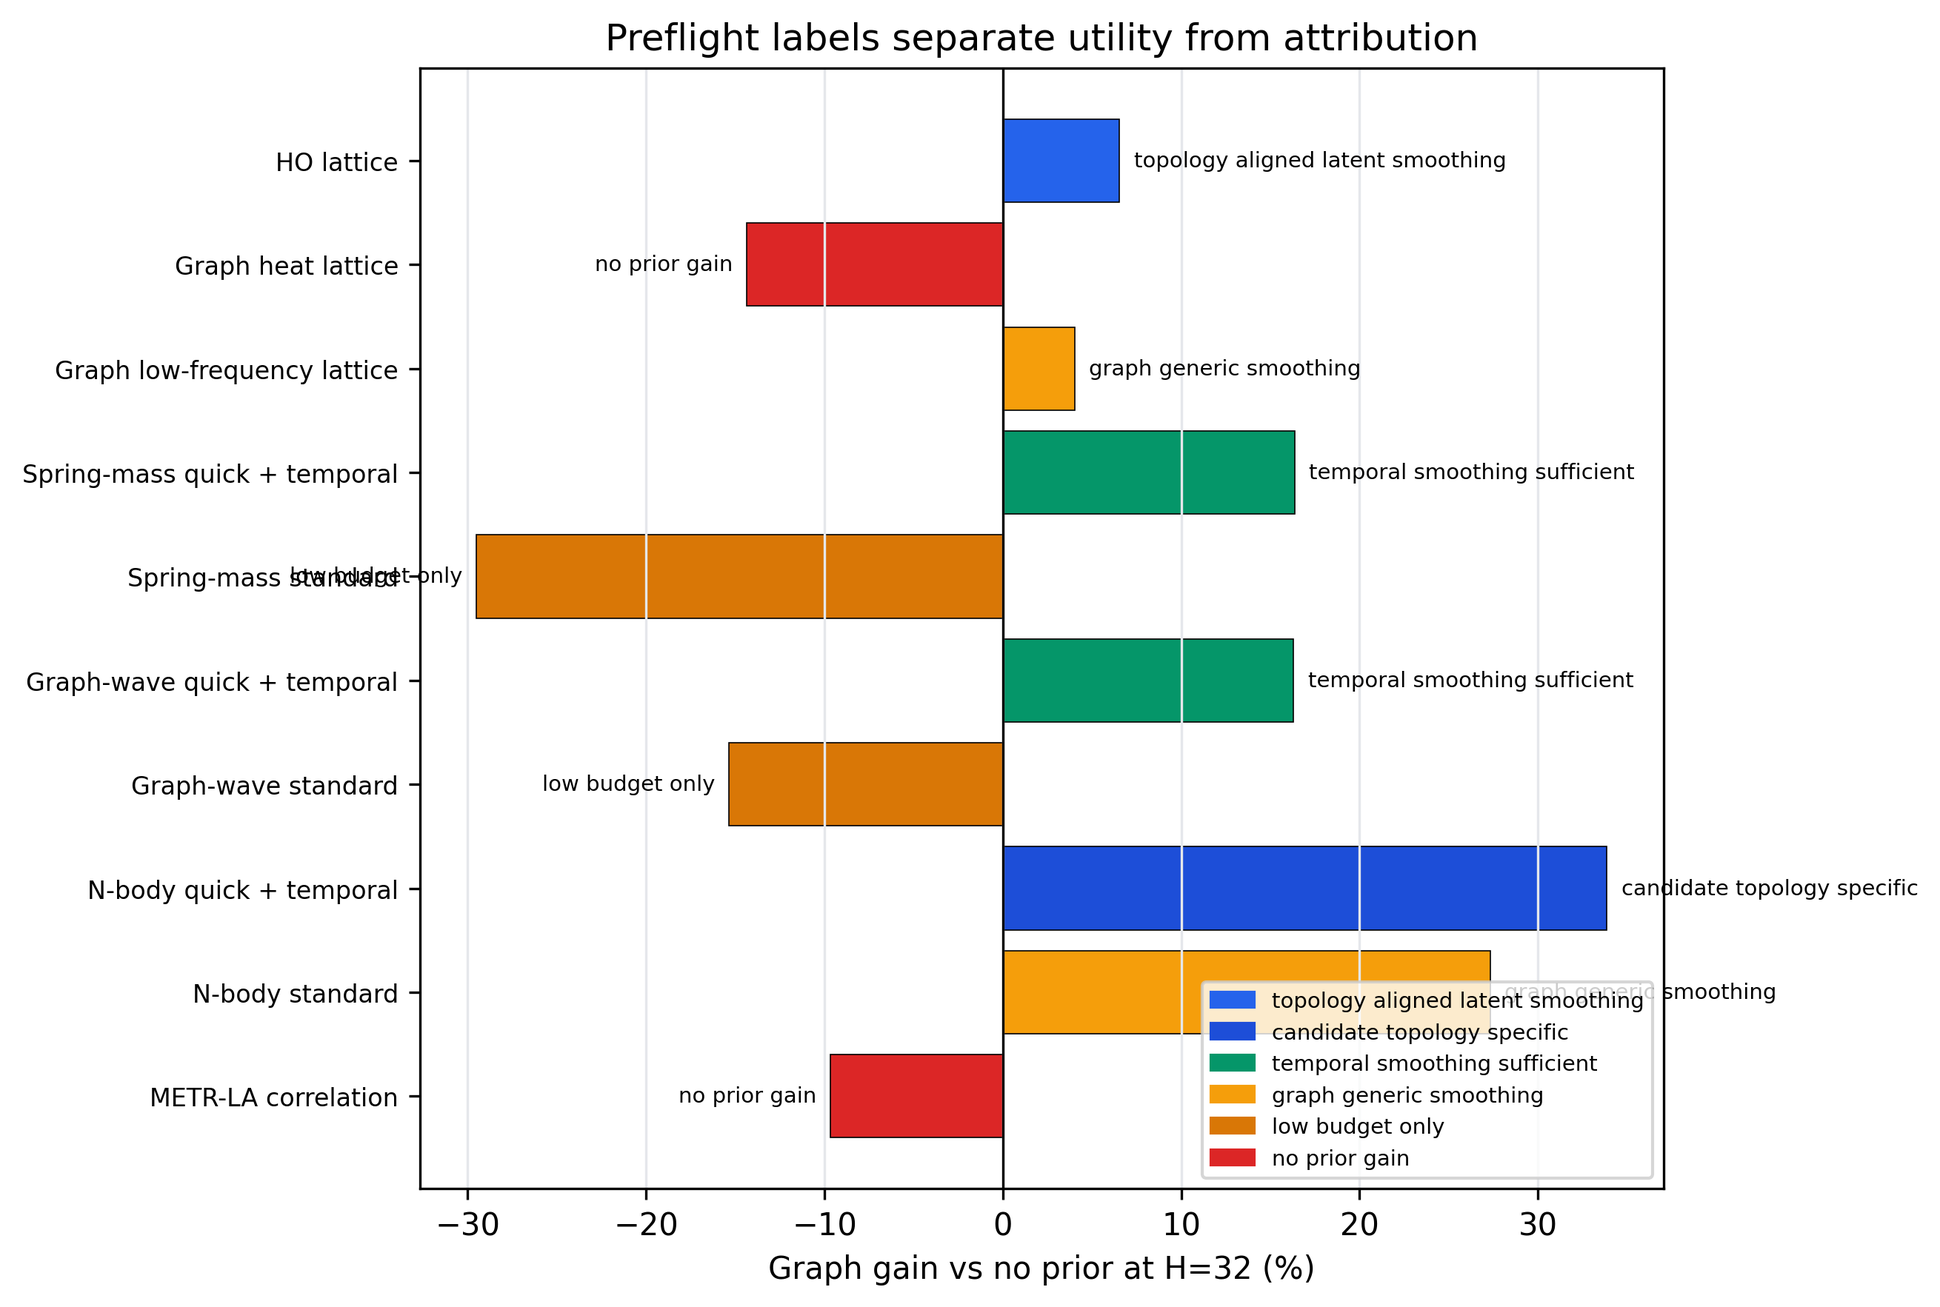
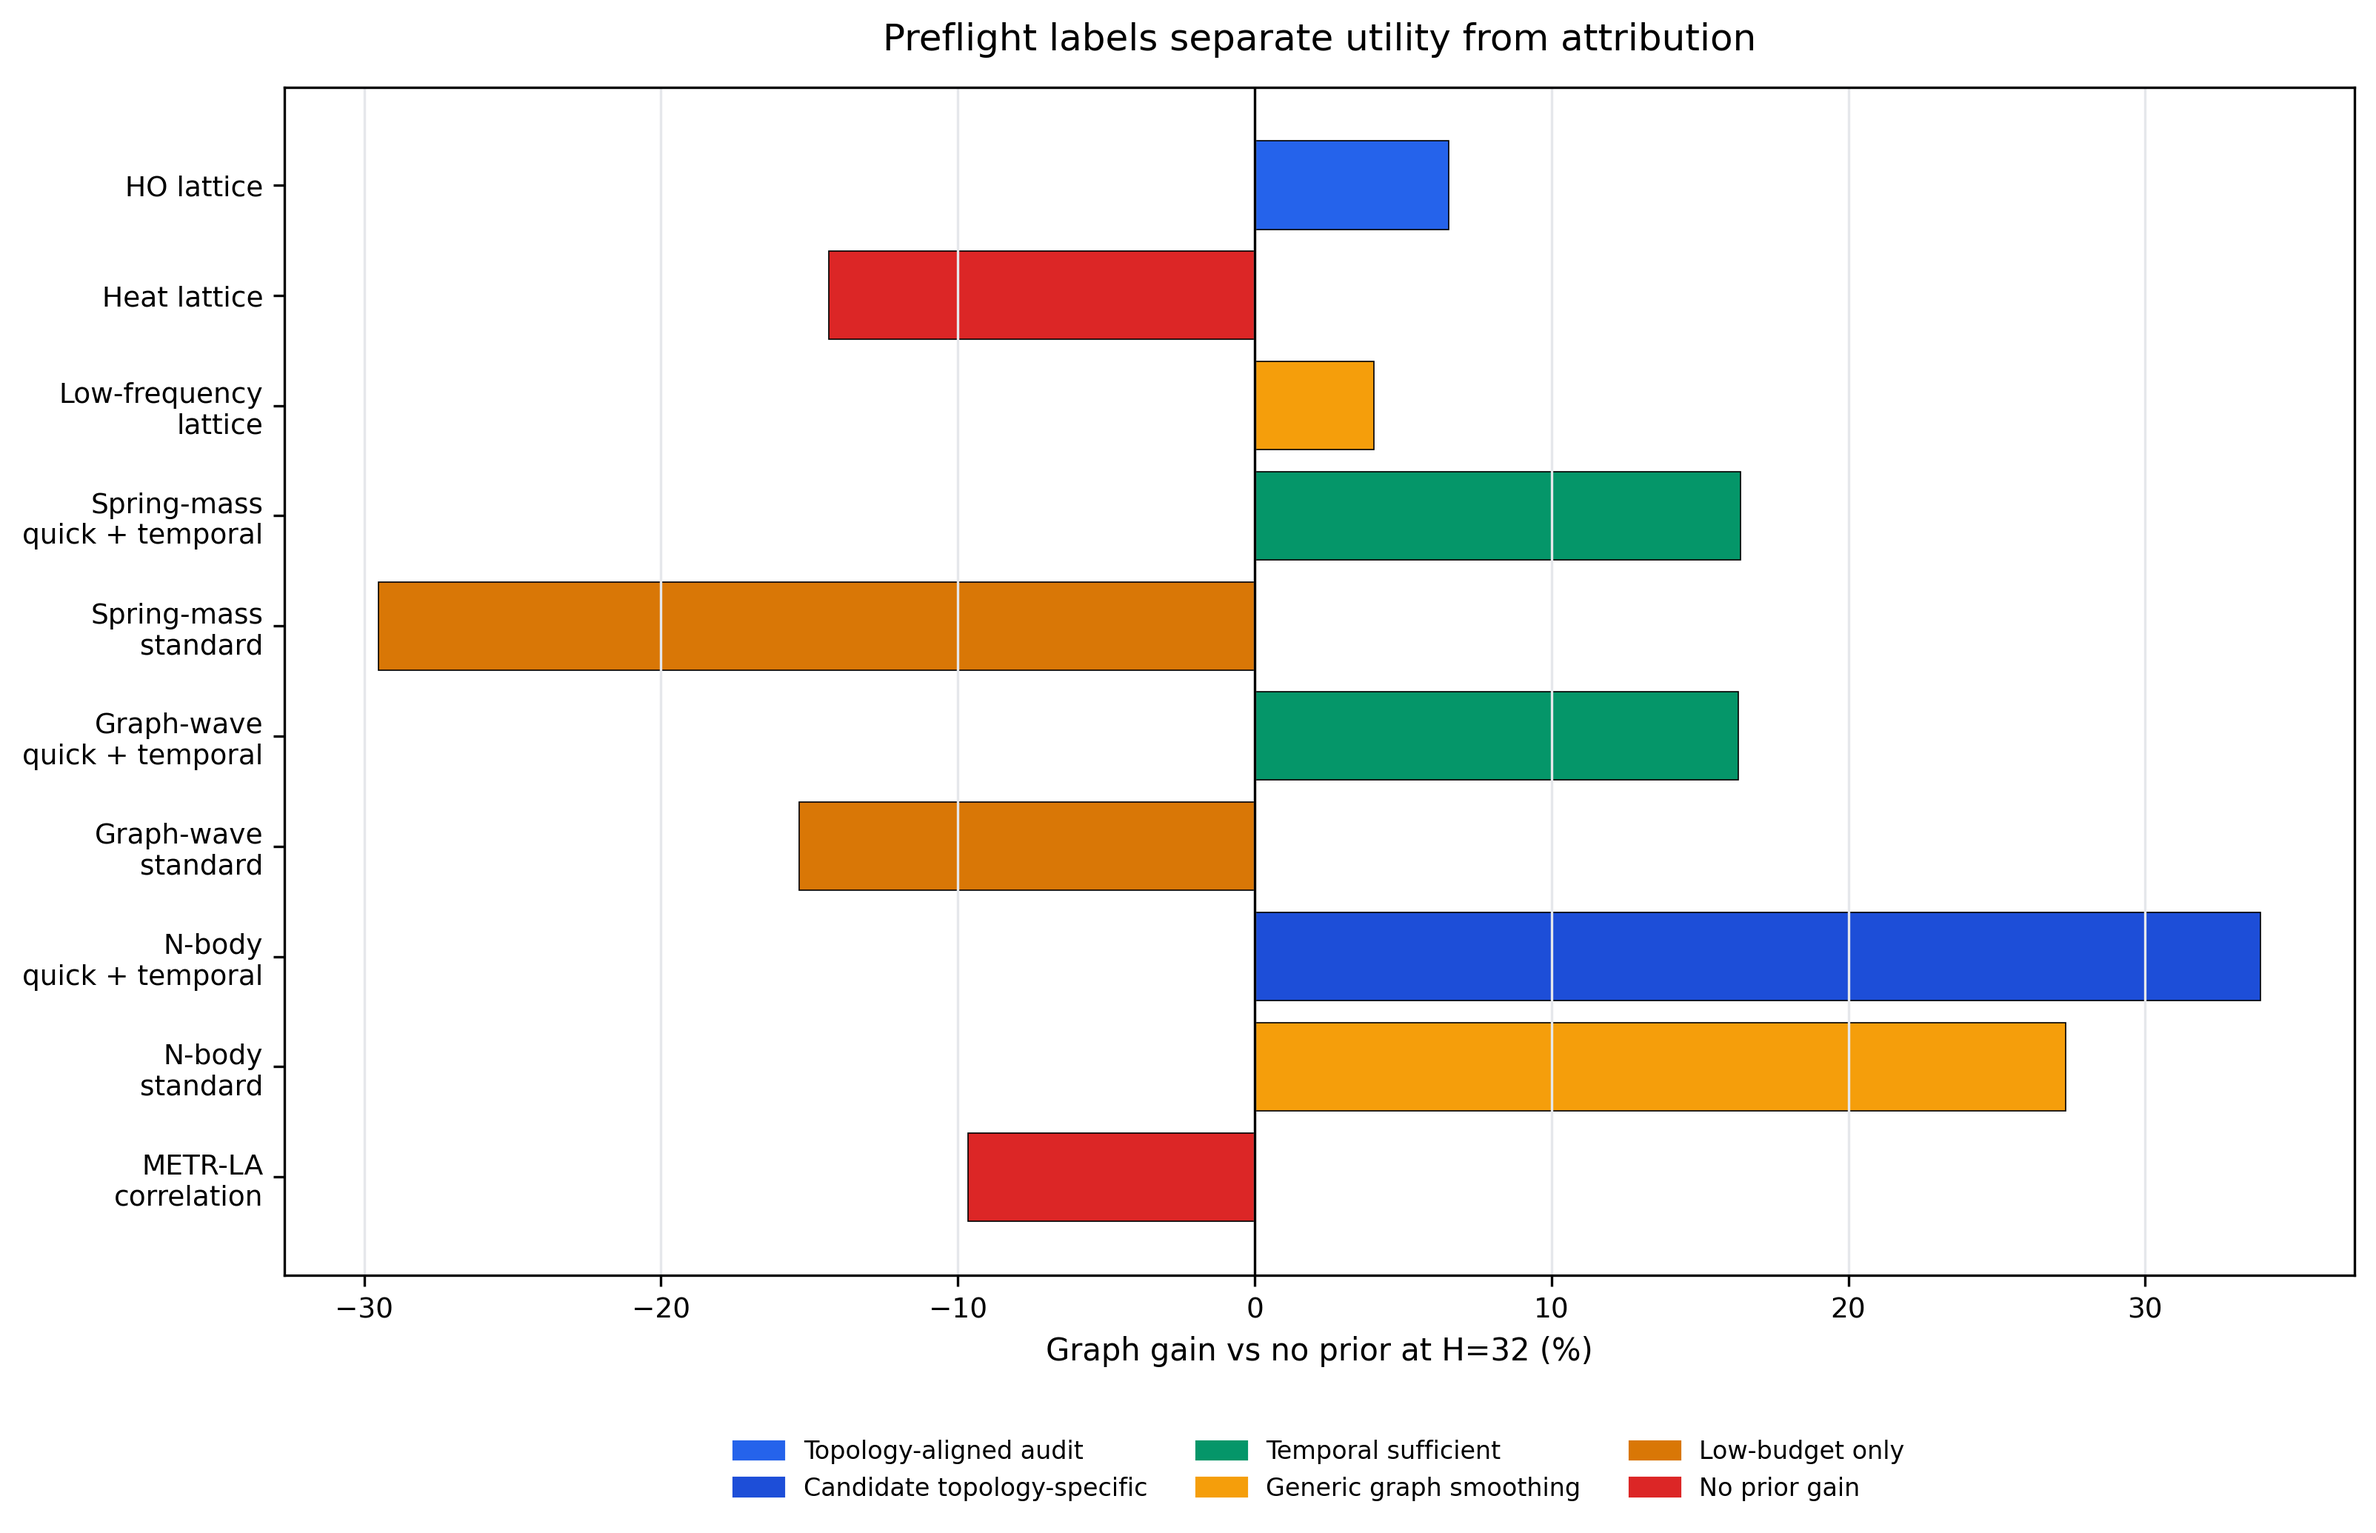
Generate and polish JCS manuscript figures and tables

diff --git a/paper/scripts/make_jcs_figures.py b/paper/scripts/make_jcs_figures.py
@@ -50,6 +50,31 @@ LABEL_COLOR = {
     "overconstrained": "#991b1b",
     "inconclusive": "#6b7280",
 }
+FIG3_SHORT_LABEL = {
+    "HO lattice": "HO lattice",
+    "Graph heat lattice": "Heat lattice",
+    "Graph low-frequency lattice": "Low-frequency\nlattice",
+    "Spring-mass quick + temporal": "Spring-mass\nquick + temporal",
+    "Spring-mass standard": "Spring-mass\nstandard",
+    "Graph-wave quick + temporal": "Graph-wave\nquick + temporal",
+    "Graph-wave standard": "Graph-wave\nstandard",
+    "N-body quick + temporal": "N-body\nquick + temporal",
+    "N-body standard": "N-body\nstandard",
+    "METR-LA correlation": "METR-LA\ncorrelation",
+}
+FIG4_SHORT_LABEL = {
+    "Spring-mass quick": "Spring-mass\nquick",
+    "Graph-wave quick": "Graph-wave\nquick",
+    "N-body quick": "N-body\nquick",
+}
+LABEL_LEGEND = {
+    "topology_aligned_latent_smoothing": "Topology-aligned audit",
+    "candidate_topology_specific": "Candidate topology-specific",
+    "temporal_smoothing_sufficient": "Temporal sufficient",
+    "graph_generic_smoothing": "Generic graph smoothing",
+    "low_budget_only": "Low-budget only",
+    "no_prior_gain": "No prior gain",
+}
 
 
 def read_csv(path: Path) -> list[dict[str, str]]:
@@ -75,25 +100,20 @@ def savefig(fig: plt.Figure, filename: str) -> None:
 def make_fig3() -> None:
     rows = read_csv(DATA_DIR / "fig3_preflight_classification_overview.csv")
     rows = list(reversed(rows))
-    labels = [r["display_case"] for r in rows]
+    labels = [FIG3_SHORT_LABEL.get(r["display_case"], r["display_case"]) for r in rows]
     gains = [as_float(r["graph_gain_vs_none_pct"]) or 0.0 for r in rows]
     colors = [LABEL_COLOR.get(r["protocol_label"], "#6b7280") for r in rows]
 
-    fig, ax = plt.subplots(figsize=(8.8, 6.0))
+    fig, ax = plt.subplots(figsize=(10.8, 7.0))
     y = list(range(len(rows)))
     ax.barh(y, gains, color=colors, edgecolor="black", linewidth=0.4)
     ax.axvline(0, color="black", linewidth=0.8)
     ax.set_yticks(y)
-    ax.set_yticklabels(labels, fontsize=8)
-    ax.set_xlabel("Graph gain vs no prior at H=32 (%)")
-    ax.set_title("Preflight labels separate utility from attribution")
+    ax.set_yticklabels(labels, fontsize=9)
+    ax.set_xlabel("Graph gain vs no prior at H=32 (%)", fontsize=10)
+    ax.set_title("Preflight labels separate utility from attribution", fontsize=12, pad=12)
     ax.grid(axis="x", color="#e5e7eb", linewidth=0.8)
-
-    for yi, gain, row in zip(y, gains, rows):
-        short = row["protocol_label"].replace("_", " ")
-        x = gain + (0.8 if gain >= 0 else -0.8)
-        ha = "left" if gain >= 0 else "right"
-        ax.text(x, yi, short, va="center", ha=ha, fontsize=7)
+    ax.tick_params(axis="x", labelsize=9)
 
     legend_labels = [
         "topology_aligned_latent_smoothing",
@@ -104,10 +124,17 @@ def make_fig3() -> None:
         "no_prior_gain",
     ]
     handles = [
-        plt.Rectangle((0, 0), 1, 1, color=LABEL_COLOR[label], label=label.replace("_", " "))
+        plt.Rectangle((0, 0), 1, 1, color=LABEL_COLOR[label], label=LABEL_LEGEND[label])
         for label in legend_labels
     ]
-    ax.legend(handles=handles, loc="lower right", fontsize=7, frameon=True)
+    ax.legend(
+        handles=handles,
+        loc="upper center",
+        bbox_to_anchor=(0.5, -0.12),
+        ncol=3,
+        fontsize=8,
+        frameon=False,
+    )
     savefig(fig, "fig3_preflight_classification_overview.png")
 
 
@@ -120,9 +147,9 @@ def make_fig4() -> None:
     values = {(r["display_case"], r["prior_family"]): as_float(r["h32_rollout"]) for r in rows}
     priors = ["none", "graph_laplacian", "permuted_graph", "temporal_smooth"]
 
-    fig, ax = plt.subplots(figsize=(8.5, 4.8))
-    x = list(range(len(cases)))
-    width = 0.18
+    fig, ax = plt.subplots(figsize=(9.8, 5.6))
+    x = [i * 1.35 for i in range(len(cases))]
+    width = 0.17
     offsets = [-1.5 * width, -0.5 * width, 0.5 * width, 1.5 * width]
     for prior, offset in zip(priors, offsets):
         ys = [values.get((case, prior), 0.0) or 0.0 for case in cases]
@@ -137,11 +164,18 @@ def make_fig4() -> None:
         )
 
     ax.set_xticks(x)
-    ax.set_xticklabels(cases)
-    ax.set_ylabel("H=32 rollout error (lower is better)")
-    ax.set_title("Calibrated temporal smoothing changes prior attribution")
+    ax.set_xticklabels([FIG4_SHORT_LABEL.get(case, case) for case in cases], fontsize=10)
+    ax.set_ylabel("H=32 rollout error (lower is better)", fontsize=10)
+    ax.set_title("Calibrated temporal smoothing changes prior attribution", fontsize=12, pad=12)
     ax.grid(axis="y", color="#e5e7eb", linewidth=0.8)
-    ax.legend(ncol=4, fontsize=8, loc="upper right")
+    ax.tick_params(axis="y", labelsize=9)
+    ax.legend(
+        ncol=4,
+        fontsize=8,
+        loc="upper center",
+        bbox_to_anchor=(0.5, -0.14),
+        frameon=False,
+    )
     savefig(fig, "fig4_prior_family_comparison.png")
 
 
